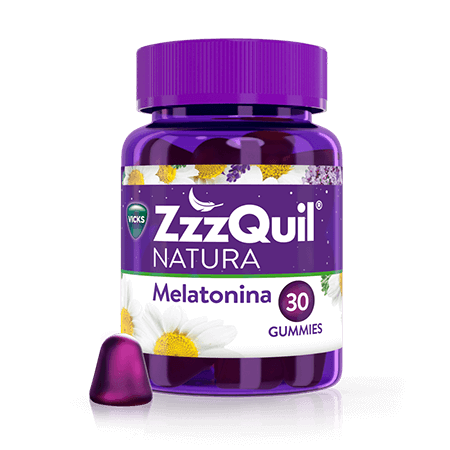
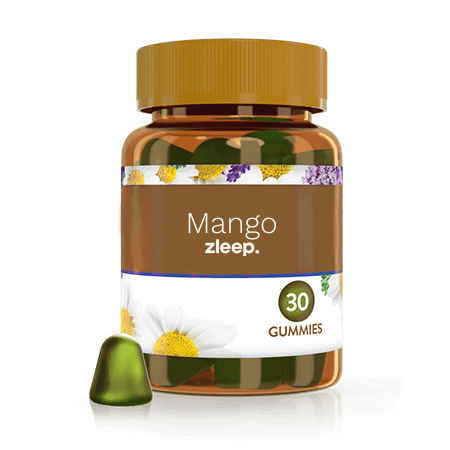
zleep

Changed region(s): [[0.2489, 0.4044, 0.7778, 0.7467], [0.2489, 0.0622, 0.7778, 0.3733], [0.1867, 0.7467, 0.7778, 0.9022]]

diff --git a/practica1.html b/practica1.html
@@ -77,7 +77,7 @@
             <div class="col-md-8">
               <div class="card-body">
                 <h2 class="card-title">Ashwagandha roots</h2>
-                <p class="card-text">This is a wider card with supporting text below as a natural lead-in to additional content. This content is a little bit longer.</p>
+                <p class="card-text">Ashwagandha is an evergreen shrub that grows in Asia and Africa. It is commonly used for stress. <br> <br> Since ashwagandha is traditionally used as an adaptogen, it is used for many conditions related to stress. Adaptogens are believed to help the body resist physical and mental stress. Some of the conditions it is used for include insomnia, aging, anxiety and many others.</p>
               </div>
             </div>
           </div>
@@ -105,7 +105,7 @@
          
           <div class="card-product">
             <div class="container-img">
-              <img src="images/gummies-prueba.png" alt="gummies prueba">
+              <img src="images/gummies-prueba2.png" alt="gummies prueba">
               <div class="button-group">
                 <span>
                   <i class="fa-regular fa-eye"></i>
@@ -117,14 +117,7 @@
               </div>
             </div>
             <div class="content-card-product">
-              <div class="stars">
-                <i class="fa-solid fa-star"></i>
-                <i class="fa-solid fa-star"></i>
-                <i class="fa-solid fa-star"></i>
-                <i class="fa-solid fa-star"></i>
-                <i class="fa-regular fa-star"></i>
-              </div>
-              <h2>Gummies 1</h2>
+              <h2>Gummies Berries</h2>
               <span class="add-cart">
                 <i class="fa-solid fa-basket-shopping"></i>
               </span>
@@ -134,8 +127,7 @@
 
           <div class="card-product">
             <div class="container-img">
-              <img src="images/gummies-prueba.png" alt="gummies prueba">
-              <span class="discount">-13%</span>
+              <img src="images/gummies-prueba3.png" alt="gummies prueba">
               <div class="button-group">
                 <span>
                   <i class="fa-regular fa-eye"></i>
@@ -147,25 +139,17 @@
               </div>
             </div>
             <div class="content-card-product">
-              <div class="stars">
-                <i class="fa-solid fa-star"></i>
-                <i class="fa-solid fa-star"></i>
-                <i class="fa-solid fa-star"></i>
-                <i class="fa-regular fa-star"></i>
-                <i class="fa-regular fa-star"></i>
-              </div>
-              <h2>Gummies 2</h2>
+              <h2>Gummies Strawberry</h2>
               <span class="add-cart">
                 <i class="fa-solid fa-basket-shopping"></i>
               </span>
-              <p class="price">19,99€ <span>24,99€</span></p>
+              <p class="price">19,99€</p>
             </div>
           </div>
        
           <div class="card-product">
             <div class="container-img">
               <img src="images/gummies-prueba.png" alt="gummies prueba">
-              <span class="discount">-13%</span>
               <div class="button-group">
                 <span>
                   <i class="fa-regular fa-eye"></i>
@@ -177,25 +161,18 @@
               </div>
             </div>
             <div class="content-card-product">
-              <div class="stars">
-                <i class="fa-solid fa-star"></i>
-                <i class="fa-solid fa-star"></i>
-                <i class="fa-solid fa-star"></i>
-                <i class="fa-solid fa-star"></i>
-                <i class="fa-regular fa-star"></i>
-              </div>
-              <h2>Gummies 3</h2>
+              <h2>Gummies Mango</h2>
               <span class="add-cart">
                 <i class="fa-solid fa-basket-shopping"></i>
               </span>
-              <p class="price">19,99€ <span>24,99€</span></p>
+              <p class="price">19,99€ </p>
             </div>
           </div>
         
           <div class="card-product">
             <div class="container-img">
-              <img src="images/gummies-prueba.png" alt="gummies prueba">
-              <span class="discount">-13%</span>
+              <img src="images/gummies-prueba2FORTE.png" alt="gummies prueba">
+             
               <div class="button-group">
                 <span>
                   <i class="fa-regular fa-eye"></i>
@@ -203,31 +180,21 @@
                 <span>
                   <i class="fa-regular fa-heart"></i>
                 </span>
-                <span>
-                  <i class="fa-solid fa-code-compare"></i>
-                </span>
               </div>
             </div>
             <div class="content-card-product">
-              <div class="stars">
-                <i class="fa-solid fa-star"></i>
-                <i class="fa-solid fa-star"></i>
-                <i class="fa-solid fa-star"></i>
-                <i class="fa-solid fa-star"></i>
-                <i class="fa-solid fa-star"></i>
-              </div>
-              <h2>Gummies 4</h2>
+              <h2>Gummies Berries Forte</h2>
               <span class="add-cart">
                 <i class="fa-solid fa-basket-shopping"></i>
               </span>
-              <p class="price">19,99€ <span>24,99€</span></p>
+              <p class="price">25,99€ </p>
             </div>
           </div>
        
           <div class="card-product">
             <div class="container-img">
-              <img src="images/gummies-prueba.png" alt="gummies prueba">
-              <span class="discount">-13%</span>
+              <img src="images/gummies-prueba3FORTE.png" alt="gummies prueba">
+              
               <div class="button-group">
                 <span>
                   <i class="fa-regular fa-eye"></i>
@@ -235,31 +202,21 @@
                 <span>
                   <i class="fa-regular fa-heart"></i>
                 </span>
-                <span>
-                  <i class="fa-solid fa-code-compare"></i>
-                </span>
               </div>
             </div>
             <div class="content-card-product">
-              <div class="stars">
-                <i class="fa-solid fa-star"></i>
-                <i class="fa-solid fa-star"></i>
-                <i class="fa-solid fa-star"></i>
-                <i class="fa-regular fa-star"></i>
-                <i class="fa-regular fa-star"></i>
-              </div>
-              <h2>Gummies 5</h2>
+              <h2>Gummies Strawberry Forte</h2>
               <span class="add-cart">
                 <i class="fa-solid fa-basket-shopping"></i>
               </span>
-              <p class="price">19,99€ <span>24,99€</span></p>
+              <p class="price">25,99€</p>
             </div>
           </div>
    
           <div class="card-product">
             <div class="container-img">
-              <img src="images/gummies-prueba.png" alt="gummies prueba">
-              <span class="discount">-13%</span>
+              <img src="images/gummies-pruebaFORTE.png" alt="gummies prueba">
+              
               <div class="button-group">
                 <span>
                   <i class="fa-regular fa-eye"></i>
@@ -267,24 +224,14 @@
                 <span>
                   <i class="fa-regular fa-heart"></i>
                 </span>
-                <span>
-                  <i class="fa-solid fa-code-compare"></i>
-                </span>
               </div>
             </div>
             <div class="content-card-product">
-              <div class="stars">
-                <i class="fa-solid fa-star"></i>
-                <i class="fa-solid fa-star"></i>
-                <i class="fa-solid fa-star"></i>
-                <i class="fa-solid fa-star"></i>
-                <i class="fa-regular fa-star"></i>
-              </div>
-              <h2>Gummies 6</h2>
+              <h2>Gummies Mango Forte</h2>
               <span class="add-cart">
                 <i class="fa-solid fa-basket-shopping"></i>
               </span>
-              <p class="price">19,99€ <span>24,99€</span></p>
+              <p class="price">25,99€ </p>
             </div>
           </div>
         </div>
@@ -295,7 +242,6 @@
         <div class="container-reviews">
          
         <div class="card">
-          <img src="images/gato1.jpg" class="card-img-top" alt="...">
           <div class="card-body">
                 <i class="fa-solid fa-star"></i>
                 <i class="fa-solid fa-star"></i>
@@ -303,32 +249,29 @@
                 <i class="fa-solid fa-star"></i>
                 <i class="fa-regular fa-star"></i>
             <h2 class="card-title">Really good product</h2>
-            <p class="card-text">I loved this! Felt really good in the morning.</p>
+            <p class="card-text">Very good product, it does what it says on the package and I wake up every day with much more energy than before. I really recommend it.</p>
           </div>
         </div>
         <div class="card">
-          <img src="images/gato2.jpg" class="card-img-top" alt="...">
           <div class="card-body">
                 <i class="fa-solid fa-star"></i>
                 <i class="fa-solid fa-star"></i>
                 <i class="fa-solid fa-star"></i>
                 <i class="fa-solid fa-star"></i>
-                <i class="fa-regular fa-star"></i>
-            <h2 class="card-title">Really good product</h2>
-            <p class="card-text">I loved this! Felt really good in the morning.</p>
+                <i class="fa-solid fa-star"></i>
+            <h2 class="card-title">Amazing!</h2>
+            <p class="card-text">Not only is it a good product, but they also taste great.</p>
           </div>
         </div>
         <div class="card">
-                
-          <img src="images/gato1.jpg" class="card-img-top" alt="...">
-          <div class="card-body">
+                <div class="card-body">
                 <i class="fa-solid fa-star"></i>
                 <i class="fa-solid fa-star"></i>
                 <i class="fa-solid fa-star"></i>
                 <i class="fa-solid fa-star"></i>
                 <i class="fa-regular fa-star"></i>
-            <h2 class="card-title">Really good product</h2>
-            <p class="card-text">I loved this! Felt really good in the morning.</p>
+            <h2 class="card-title">Love it</h2>
+            <p class="card-text">Since I tried them, they have become one of the essentials in my nighttime routine. I take them just before brushing my teeth, start reading and in no time I find myself falling asleep!</p>
           </div>
         </div>
       </section>

diff --git a/css/style.css b/css/style.css
@@ -77,10 +77,11 @@ ul li {
 
 .carousel-inner{
   max-height: 39rem;
+  display: flex;
 }
 
-.carousel-inner img{
-  object-fit: contain;
+.carousel-item{
+  display: flex;
 }
 
 #section3{
@@ -132,6 +133,10 @@ ul li {
   padding: 2rem 3rem;
   border-radius: 5rem;
   cursor: pointer;
+}
+
+.card-body p{
+  display: flex;
 }
 
 .container-img {
